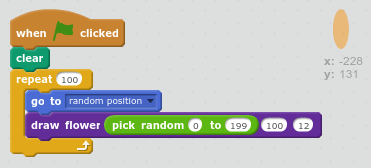
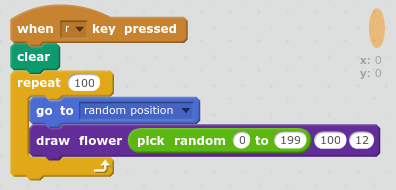
Added patterns and firework option

Changed region(s): [[0.0, 0.0, 0.9784, 0.9524], [0.8598, 0.0298, 0.9784, 0.4762], [0.8598, 0.4167, 0.8895, 0.4762]]

diff --git a/en/step_8.md b/en/step_8.md
@@ -1,0 +1,51 @@
+## Flower patterns
+
+You can also use your 'draw flower' block to create neat flower patterns. 
+
++ Create a flower or combination of flowers that you like. Here's an example:
+
+	![screenshot](images/flower-for-pattern.png)	
+	
++ Press 'p' to see your flower. The example looks like this:
+
+	![screenshot](images/flower-for-pattern-example.png)	
+	
++ You can right-click on the Flower sprite and 'hide' it so it doesn't appear on the stage. (You can show the sprite again if you need to see where it is.)
+
++ Now draw a row of those flowers across the top of the stage. Here's an example, but you might need to adjust the numbers to work with your flower:
+
+	![screenshot](images/flower-pattern-row.png)
+	
++ Press 'p' to see a row of flowers: 
+
+	![screenshot](images/flower-pattern-row-example.png)
+	
++ Add another loop to create more rows of flowers. This example adds a 'repeat 3' loop to create three rows. 
+
+	![screenshot](images/flower-pattern-rows.png)
+	
++ Press 'p' to see a grid of flowers: 
+
+	![screenshot](images/flower-pattern-rows-example.png)
+
++ You can also change the colour of the stage. First create an orange backdrop by using the fill tool in Bitmap mode. 
+
+	![screenshot](images/flower-orange-backdrop.png)
+	
+	Using orange means that the numbers for different colours will match the ones for the petal. 
+	
++ Now you can use the 'set colour effect' on the __Stage__ to change the colour of the backdrop.
+	
+	![screenshot](images/flower-backdrop-colour.png)
+	
++ Try different things to create a pattern you like. 
+
+	Here's an example: 
+	
+	![screenshot](images/flower-pattern-background.png)
+
+
+
+
+
+

diff --git a/en/step_1.md b/en/step_1.md
@@ -1,6 +1,6 @@
 ## Introduction
 
-In this project you will make a flower generator that can create flowers of different sizes, shapes and numbers of petals. You can adapt the project to create other interesting geometric patterns. 
+In this project you will create a 'draw flower' block that can create flowers of different sizes, shapes and numbers of petals. You'll use your new block to create random flower designs and flower patterns. You can adapt the project to create other interesting geometric patterns. 
 
 You can export the patterns you have created on the stage to use as a wallpaper for your phone or desktop or to use as backdrops in other Scratch projects. 
 
@@ -10,7 +10,7 @@ You can export the patterns you have created on the stage to use as a wallpaper 
   <iframe allowtransparency="true" width="485" height="402" src="https://scratch.mit.edu/projects/embed/173379316/?autostart=false" frameborder="0"></iframe>
 </div>
 
-Click the green flag to generate flowers. 
+Press 'f' to draw some flowers,  'r' to draw lots of flowers in random positions or 'p' to draw a flower pattern. 
 
 ### What you will learn
 

diff --git a/en/step_6.md b/en/step_6.md
@@ -1,11 +1,15 @@
---- challenge ---
 
-Challenge: Random Flower Generator
 
-What do you think this code will do?
+## Saving the stage
 
-![screenshot](images/flower-random-code.png)	
+If you've created a pattern you like you can save it to use in another Scratch project or as a screensaver or on a web site. 
 
-Try changing it to create your own random flower generator. You can try using random ranges for colour, size and number of petals. 
++ When you have a pattern on the stage that you like you can right-click and choose 'save stage'
 
---- /challenge ---
+	![screenshot](images/flower-save-stage.png)	
+	
+	This allows you to save a '.png' image of the stage. 
+	
+	Choose a sensible file name and location to save.
+	
+	

diff --git a/en/step_5.md b/en/step_5.md
@@ -97,7 +97,15 @@ Your code should look like this:
 
 + Try out your 'draw flowers' block and create some amazing patterns. Try drawing smaller flowers on top of larger ones to create interesting effects. 
 
+You could also try experimenting with different petal shapes. 
+
 --- /challenge ---
+
++ Now move your flower drawing code under an 'when f key pressed' block so you'll be able to draw different flowers when you press different keys. 
+
+	![screenshot](images/flower-press-f.png)
+	
++ Press 'f' to test your code. 
 
 
 

diff --git a/en/step_4.md b/en/step_4.md
@@ -36,6 +36,18 @@
 
 Can you use your 'make flower' block more times and draw more flowers?
 
+Create a design that you like. Here's an example:
+
+	![screenshot](images/flower-three.png)
+
+You don't have to use ellipse-shaped petals. This 'firework' pattern was created using a thick straight line and a black backdrop: 
+
+	![screenshot](images/flower-fireworks.png)
+	
+The 'petal' is just a line with the crosshair a bit below the bottom:
+	
+	![screenshot](images/flower-firework-petal.png)
+
 --- /challenge ---
 
 

diff --git a/en/step_2.md b/en/step_2.md
@@ -2,12 +2,11 @@
 
 ### Hardware
 
-+ List hardware here, or delete section.
++ An internet-connected computer
 
 ### Software
 
-+ List software here, or delete section.
++ Scratch 2.0 (online or offline)
 
-### Additional Resources
 
-+ List additional resources, or delete section.
+
